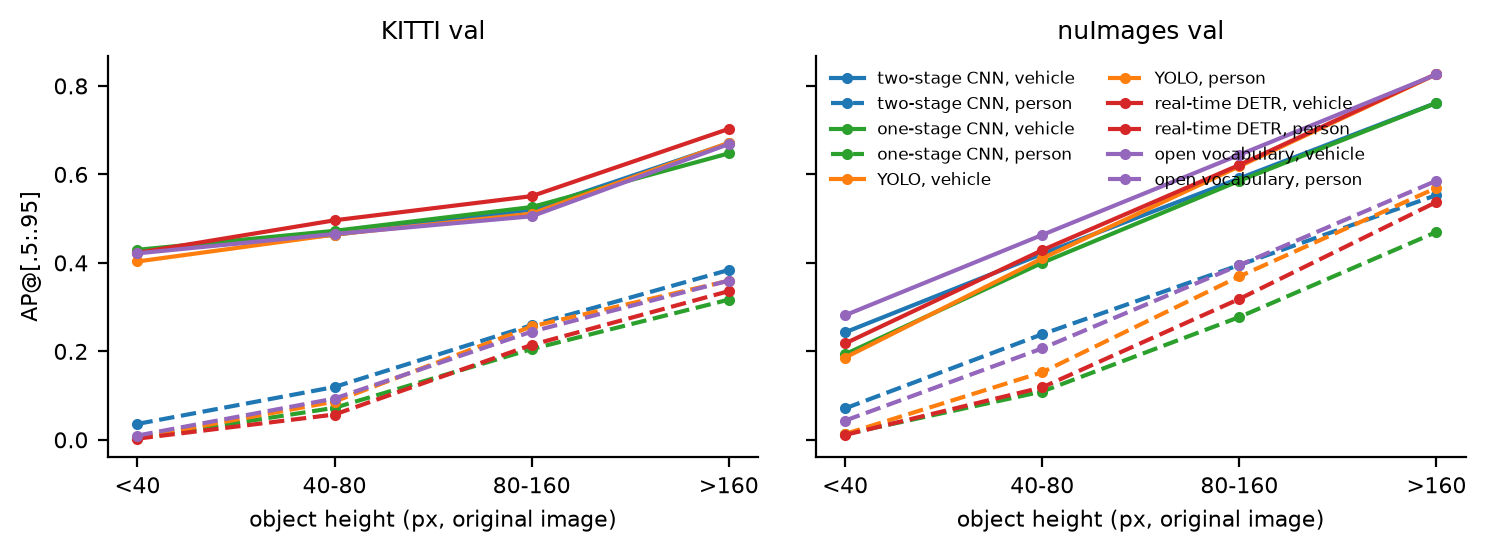
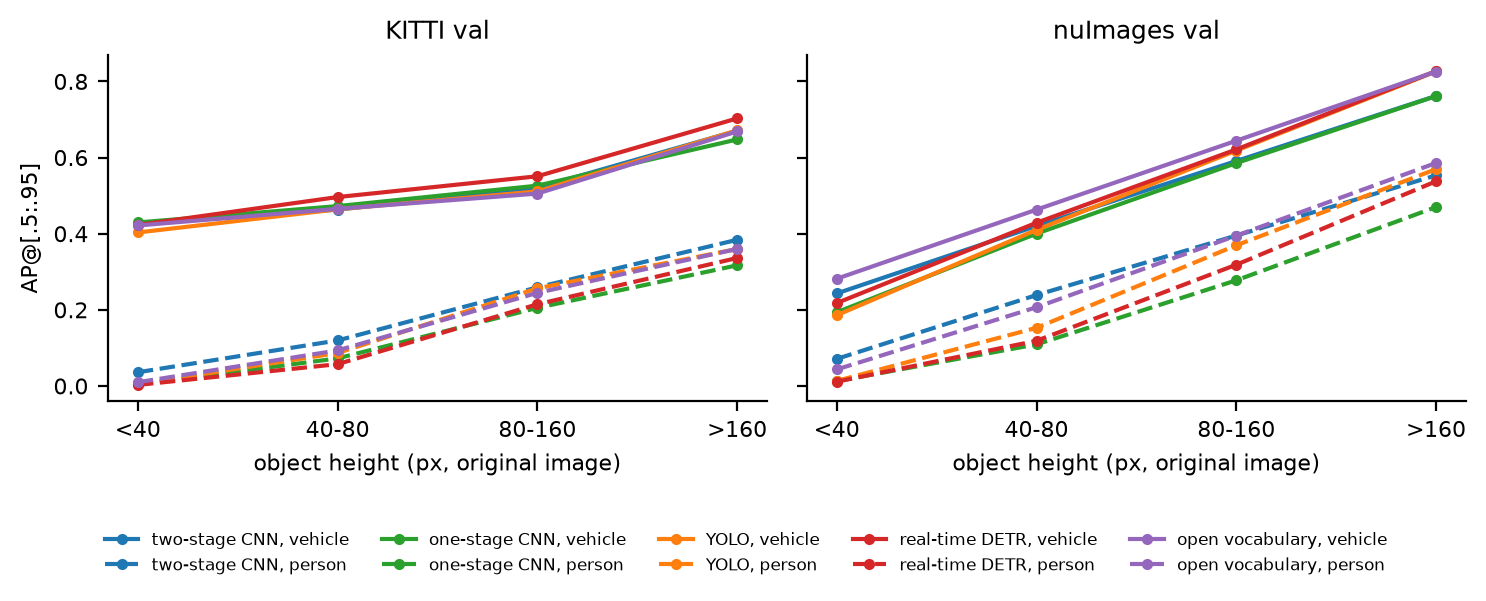
Figure legends and axis labels

diff --git a/scripts/figures.py b/scripts/figures.py
@@ -112,8 +112,9 @@ def fig_height(main):
         ax.set_xlabel("object height (px, original image)")
         ax.set_title(DS_LABEL[ds])
     axes[0].set_ylabel("AP@[.5:.95]")
-    axes[1].legend(frameon=False, fontsize=6, ncol=2)
-    fig.tight_layout()
+    h, l = axes[1].get_legend_handles_labels()
+    fig.legend(h, l, frameon=False, fontsize=6, ncol=5, loc="lower center", bbox_to_anchor=(0.5, -0.06))
+    fig.tight_layout(rect=(0, 0.1, 1, 1))
     fig.savefig(FIG / "ap_by_height.png")
     plt.close(fig)
 
@@ -133,7 +134,9 @@ def fig_speed(main, lat_nuim, lat_kitti):
             t = lat[r["spec"]]["fp16_end_to_end_ms_median"]
             pts.append((t, r["stats"]["AP"], r["model"], r["family"]))
             ax.scatter(t, r["stats"]["AP"], color=FAMILY_COLOR[r["family"]], s=16)
-            ax.annotate(r["model"], (t, r["stats"]["AP"]), fontsize=5.5, xytext=(2, 2), textcoords="offset points")
+            below = (ds, r["model"]) in {("kitti_val", "Faster R-CNN v2")}   # avoid a label collision
+            ax.annotate(r["model"], (t, r["stats"]["AP"]), fontsize=5.5, xytext=(2, -8 if below else 2),
+                        textcoords="offset points")
         pts.sort()
         front, best = [], -1
         for t, ap, *_ in pts:
@@ -142,14 +145,16 @@ def fig_speed(main, lat_nuim, lat_kitti):
         if front:
             ax.plot(*zip(*front), color="k", lw=0.7, ls=":")
         ax.set_xscale("log")
+        ax.set_xticks([5, 10, 20, 50, 100], ["5", "10", "20", "50", "100"])
+        ax.minorticks_off()
         res = "KITTI frame" if ds == "kitti_val" else "1600x900 frame"
         ax.set_xlabel(f"ms per {res} (batch 1, fp16, end to end)")
         ax.set_title(DS_LABEL[ds])
     axes[0].set_ylabel("mAP@[.5:.95]")
-    axes[0].legend(handles=[Line2D([], [], marker="o", ls="", color=c, label=f) for f, c in FAMILY_COLOR.items()]
-                   + [Line2D([], [], color="k", ls=":", lw=0.7, label="best accuracy so far")],
-                   frameon=False, fontsize=6, loc="lower right")
-    fig.tight_layout()
+    fig.legend(handles=[Line2D([], [], marker="o", ls="", color=c, label=f) for f, c in FAMILY_COLOR.items()]
+               + [Line2D([], [], color="k", ls=":", lw=0.7, label="more accurate than every faster model")],
+               frameon=False, fontsize=7, loc="lower center", ncol=6, bbox_to_anchor=(0.5, -0.04))
+    fig.tight_layout(rect=(0, 0.06, 1, 1))
     fig.savefig(FIG / "speed_accuracy.png")
     plt.close(fig)
 
